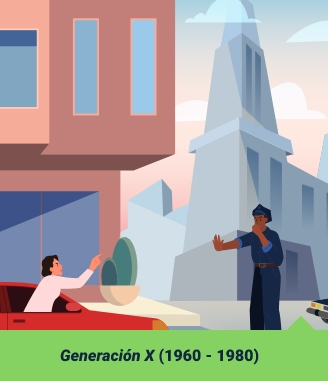
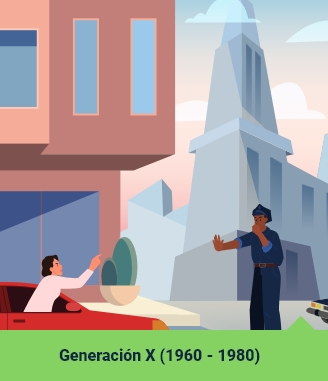
ajustes imagen e italica

Changed region(s): [[0.1829, 0.895, 0.6402, 0.9528], [0.6707, 0.895, 0.7927, 0.9528]]

diff --git a/src/views/Tema2.vue b/src/views/Tema2.vue
@@ -718,7 +718,7 @@
           tr
             th.p-0(style="border: none !important;")
               .p-3(style="background-color: #FED5B1; border: 3px solid #FC8116; border-bottom: none; border-right: none; border-top-left-radius: 20px;")
-                h3.text-center.fw-bold.mb-0 Outbond
+                h3.text-center.fw-bold.mb-0 #[em Outbond]
             th.p-0(style="border: none !important;")
               .p-3(style="background-color: #A4DC88; border: 3px solid #FC8116; border-bottom: none;")
                 h3.text-center.fw-bold.mb-0 #[em Inbound]
